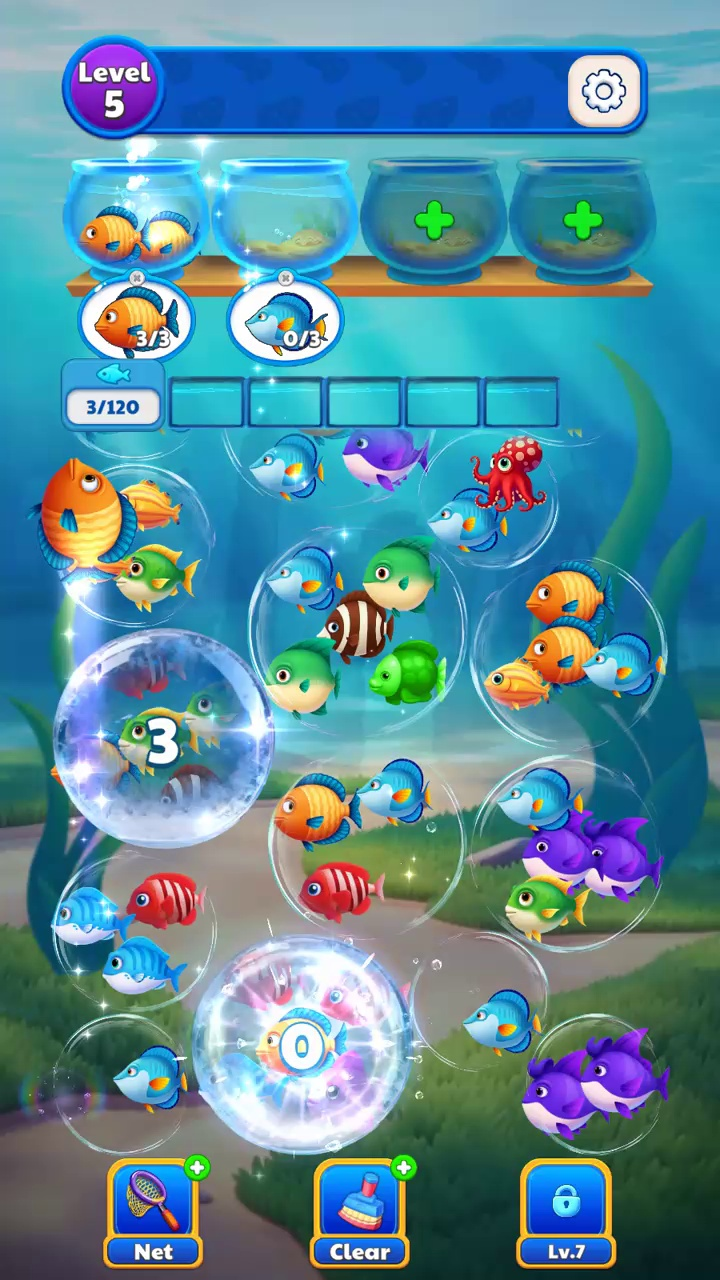
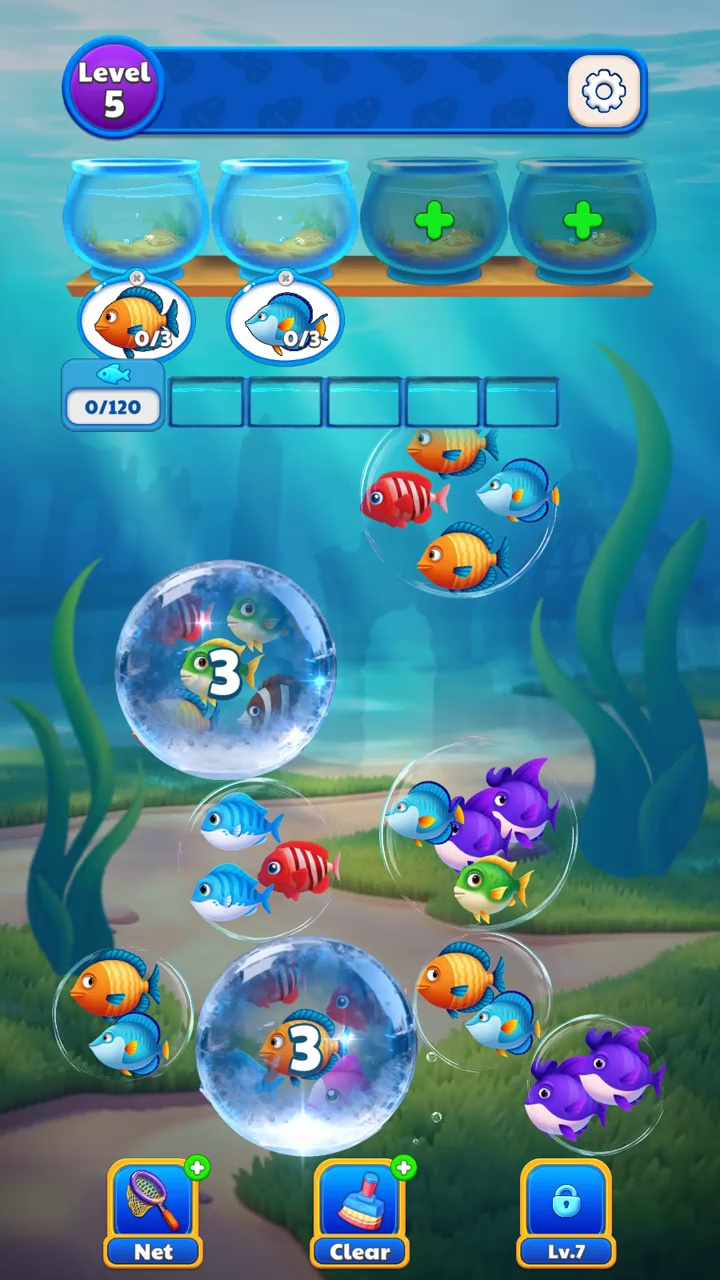
feat: implement intelligent pristine board start detection filtering HUD and tutorial popups

diff --git a/core/base_detector.py b/core/base_detector.py
@@ -31,17 +31,66 @@ class BaseGameDetector(ABC):
         """
         return False
 
+    def detect_hud_active(self, frame: np.ndarray, timestamp: float) -> bool:
+        """
+        (Optional) Checks if the in-game HUD (settings, level badge, top bar) is active.
+        Subclasses should override with game-specific UI anchors.
+        Default: checks if top bar region has content and is not black/blank.
+        """
+        if frame is None:
+            return False
+        h, w = frame.shape[:2]
+        top_bar = frame[:int(h * 0.12), :]
+        return float(np.std(top_bar)) > 20.0
+
+    def detect_modal_dialog(self, frame: np.ndarray, timestamp: float) -> bool:
+        """
+        (Optional) Checks if a tutorial popup, speech bubble, or modal dialog is covering the center.
+        Subclasses should override.
+        """
+        return False
+
     def get_board_start_timestamp(self, victory_event: Dict[str, Any], prev_victory_event: Optional[Dict[str, Any]]) -> float:
         """
-        Calculates the timestamp for the initial board screenshot (board_start.jpg).
-        Default: 2 seconds after previous victory ended (or 22s for level 1).
+        Intelligently scans the transition window between previous victory and current victory
+        to pinpoint the exact pristine board start moment:
+        1. In-game HUD is active (detect_hud_active is True)
+        2. No modal tutorial/popup covering the board (detect_modal_dialog is False)
+        3. Earliest stable frame before player moves
         """
-        start_time = (prev_victory_event["end"] + 2.0) if prev_victory_event else 22.0
+        v_end = prev_victory_event["end"] if prev_victory_event else None
         v_start = victory_event["start"]
-        board_time = start_time + 1.5
-        if board_time >= v_start:
-            board_time = start_time
-        return board_time
+
+        # Search window: from previous victory end + 0.5s up to 40 seconds later (capped before victory)
+        search_start = max(0.0, (v_end + 0.5) if v_end is not None else 10.0)
+        search_end = min(v_start - 2.0, search_start + 45.0)
+
+        if search_start >= search_end:
+            return search_start
+
+        candidates = []
+        for t in np.arange(search_start, search_end, 0.5):
+            frame = self.vp.get_frame_at_second(t)
+            if frame is None:
+                continue
+
+            if not self.detect_hud_active(frame, t):
+                continue
+
+            if self.detect_modal_dialog(frame, t):
+                continue
+
+            candidates.append(t)
+            # Two consecutive clean frames confirm HUD stability and no transition flicker
+            if len(candidates) >= 2 and abs(candidates[-1] - candidates[-2] - 0.5) < 0.1:
+                return candidates[-2]
+
+        if candidates:
+            return candidates[0]
+
+        # Safe fallback
+        fallback = (v_end + 3.0) if v_end is not None else 22.0
+        return min(fallback, v_start - 1.0)
 
     def get_victory_screenshot_timestamp(self, victory_event: Dict[str, Any]) -> float:
         """

diff --git a/profiles/fish_sort_puzzle/detector.py b/profiles/fish_sort_puzzle/detector.py
@@ -23,6 +23,30 @@ class FishSortPuzzleDetector(BaseGameDetector):
         threshold = self.config.get("victory_threshold", 6000)
         return yellow_count > threshold
 
+    def detect_hud_active(self, frame: np.ndarray, timestamp: float) -> bool:
+        """
+        Detects if the in-game Settings Gear Icon is visible at the top-right.
+        Gear icon is white pixels on rounded rect: y: 3-11%, x: 78-92%.
+        """
+        if frame is None:
+            return False
+        h, w = frame.shape[:2]
+        gear = frame[int(0.03 * h):int(0.11 * h), int(0.78 * w):int(0.92 * w)]
+        white_gear = np.sum((gear[:, :, 0] > 200) & (gear[:, :, 1] > 200) & (gear[:, :, 2] > 200))
+        return white_gear > 2200
+
+    def detect_modal_dialog(self, frame: np.ndarray, timestamp: float) -> bool:
+        """
+        Detects if a tutorial dialog or speech bubble is covering the center area.
+        Speech bubble has bright cyan color: B > 180, G > 180, R < 100.
+        """
+        if frame is None:
+            return False
+        h, w = frame.shape[:2]
+        center = frame[int(0.40 * h):int(0.65 * h), int(0.20 * w):int(0.80 * w)]
+        cyan_dialog = np.sum((center[:, :, 0] > 180) & (center[:, :, 1] > 180) & (center[:, :, 2] < 100))
+        return cyan_dialog > 15000
+
     def get_difficulty_label(self, duration_seconds: int) -> str:
         if duration_seconds <= 25:
             return "🟢 Rất dễ (Tutorial)"

diff --git a/core/level_detector.py b/core/level_detector.py
@@ -58,8 +58,8 @@ class LevelCoordinator:
             board_shot_time = self.detector.get_board_start_timestamp(ev, prev_victory_event)
             vic_shot_time = self.detector.get_victory_screenshot_timestamp(ev)
             
-            # Start of level gameplay
-            level_start_sec = (prev_victory_event["end"] + 3.0) if prev_victory_event else 22.0
+            # Start of level gameplay matches the pristine board layout
+            level_start_sec = board_shot_time
             duration_sec = max(1, int(ev["start"] - level_start_sec))
             difficulty = self.detector.get_difficulty_label(duration_sec)
             
